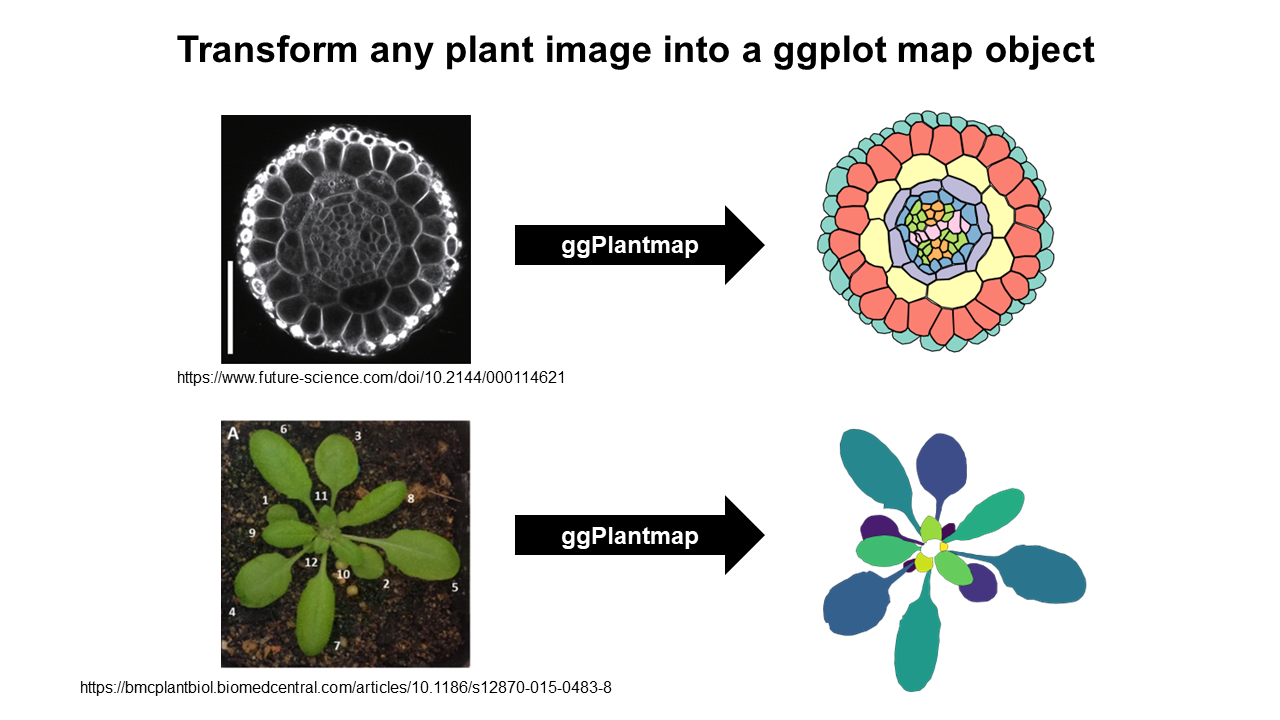
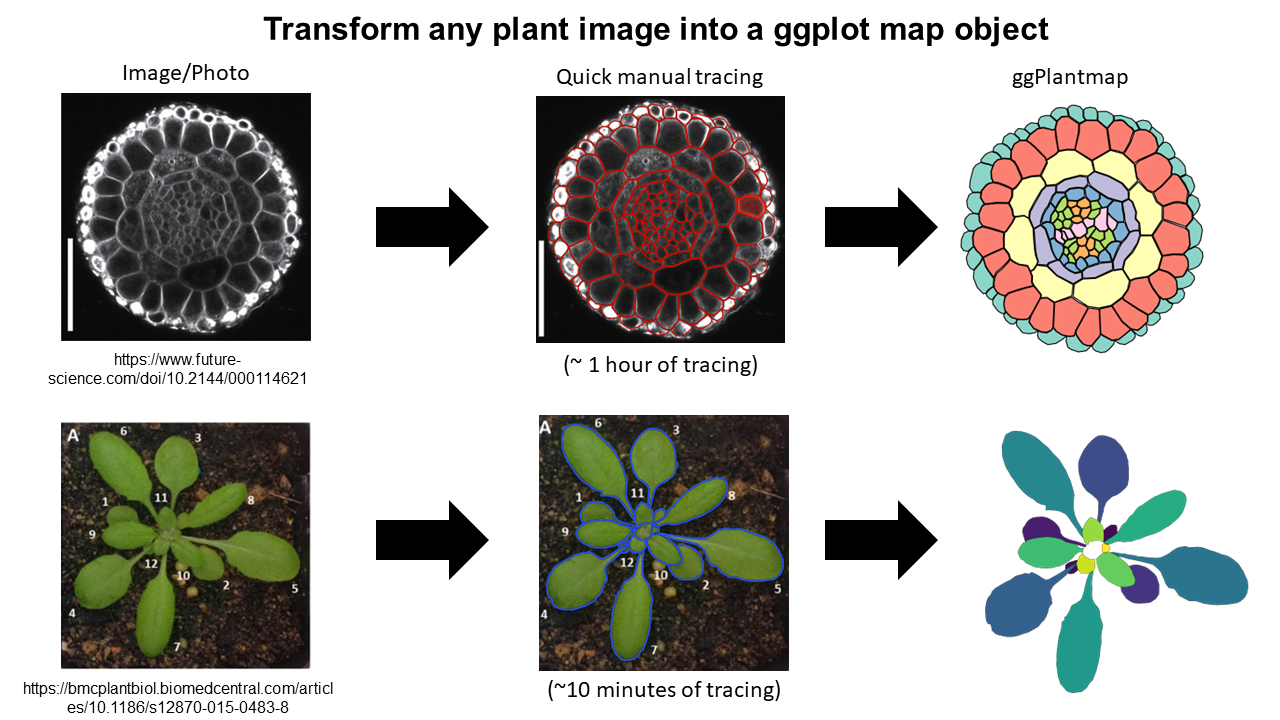
Updates on README

diff --git a/README.md b/README.md
@@ -1,5 +1,5 @@
 
-# ggPlantmap <img src="man/figures/hex.png" align="right" height="200"/>
+# ggPlantmap <img src="man/figures/hex.png" align="right" height="250"/>
 
 ###### Version Beta.1
 
@@ -23,7 +23,7 @@ visualizing, and analyzing spatial quantitative patterns within specific
 plant regions This package uses the flexibility of the well-known
 ggplot2 R package to allow users to tailor maps to their specific
 research questions.
-<img src="man/figures/ggPlantmap.example1.jpg" align="center" height="250"/>
+<img src="man/figures/ggPlantmap.example.jpg" align="center" width="1000"/>
 
 ## Installation
 
@@ -70,8 +70,7 @@ head(ggPm.At.roottip.longitudinal)
 
 ## Plotting a ggPlantmap
 
-ggPlantmaps can be plotted easily plotted using the ggPlantmap.plot()
-function
+ggPlantmaps can be easily plotted using the ggPlantmap.plot() function.
 
 ``` r
 library(ggPlantmap)
@@ -158,13 +157,13 @@ ggPlantmap for the communication of Plant science.
 
 The principle of creating a ggPlantmap is fairly simple. We generate a
 list of ROIs (region of interests) in the Icy open-source software
-(<https://icy.bioimageanalysis.org/>) from any image. These ROIs are
-saved as XML files and later be converted into ggPlantmaps with the
+(<https://icy.bioimageanalysis.org/>) from any plant image. These ROIs
+are saved as XML files and later be converted into ggPlantmaps with the
 XML.to.ggPlantmap() function. [We created step-by-step guide with
 tips](https://github.com/leonardojo/ggPlantmap/blob/main/Tutorial%20for%20XML%20file.pdf)
 on how to generate xml images from plant images.
 
-<img src="man/figures/README-Slide1.PNG" align="center" width="600"/>
+<img src="man/figures/README-Slide1.PNG" align="center" width="800"/>
 
 ``` r
 new.ggPlantmap <- XML.to.ggPlantmap("data/ggPm.sample.xml")
